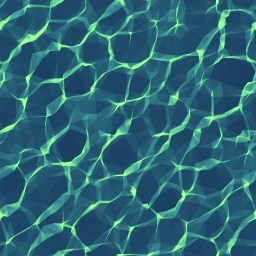
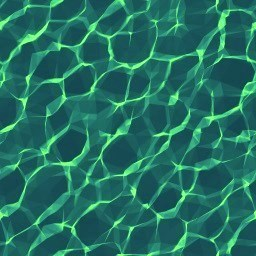
changed background

diff --git a/index.html b/index.html
@@ -27,22 +27,22 @@
 		<section>
 
 			<h1>Your Website</h1>
-			<em>Monoton, #789675</em>
+			<em>Nova Mono, #B22477</em>
 			
 			<br><br>
 
 			<h2>Primary Header</h2>
-			<em>Font name and color</em>
+			<em>Josefin Sans and #B22477</em>
 			
 			<br><br>
 
 			<h3>Secondary Header</h3>
-			<em>Font name and color</em>
+			<em>Josefin Sans and #B22477</em>
 			
 			<br><br>
 
 			<p>Lorem ipsum dolor sit amet, consectetur adipisicing elit. Ad, maiores, hic, <a href="">Links</a> dolor laboriosam rerum numquam accusantium minima architecto inventore quibusdam <a href="">Links </a> harum illum labore quidem itaque iusto. Lorem ipsum dolor sit amet, consectetur adipisicing elit. Soluta, nostrum, ex modi quibusdam aliquid quam numquam aut sed iusto nisi nulla rerum assumenda quidem necessitatibus magni quia excepturi cum fugit!</p>
-			<em>Font name and color</em>
+			<em>Josefin Sans and #FF4DB5</em>
 			
 		</section>
 		
@@ -67,8 +67,7 @@
 		<!-- Clearfix -->
 		<div class="clear"></div>
 
-	</div>
-	
+	</div>	
   
 </body>
 </html>

diff --git a/css/styles.css b/css/styles.css
@@ -3,12 +3,25 @@
 h1 {
 	font-family: 'Nova Mono', sans-serif;
 	color: #B22477;
+	font-size: 6em;
+}
+
+h2 {
+	font-family: 'Josefin Sans', sans-serif;
+	color: #B22477;
+	font-size: 4em;
+}
+
+h3 {
+	font-family: 'Josefin Sans', sans-serif;
+	color: #B22477;
+	font-size: 3em;
 }
 
 /* Body Text */
 
 p {
-	font-family: 'Crafty Girls', cursive;
+	font-family: 'Josefin Sans', sans-serif;
 	font-size: 2em;
 	color: #FF4DB5;
 }
@@ -17,8 +30,8 @@ p {
 
 a:link,
 a:visited {
-	border-bottom: dashed orange 2px;
-	text-transform: uppercase;
+	font-family: 'Josefin Sans', sans-serif;
+	color: #B22477;
 	text-decoration: none;
 }
 
@@ -30,7 +43,6 @@ a:hover {
 /* Set Your Own Margin & Padding */
 h2, h3, p {
 	margin: 0;
-	font-family: 'Josefin Sans', sans-serif;
 }
 
 /* Layout for Style Tile*/
@@ -85,5 +97,9 @@ section {
 }
 
 body {
-	background:#054F00;
+	background: url("../img/water.jpg");
+}
+
+div.container {
+	background: #066600;
 }
